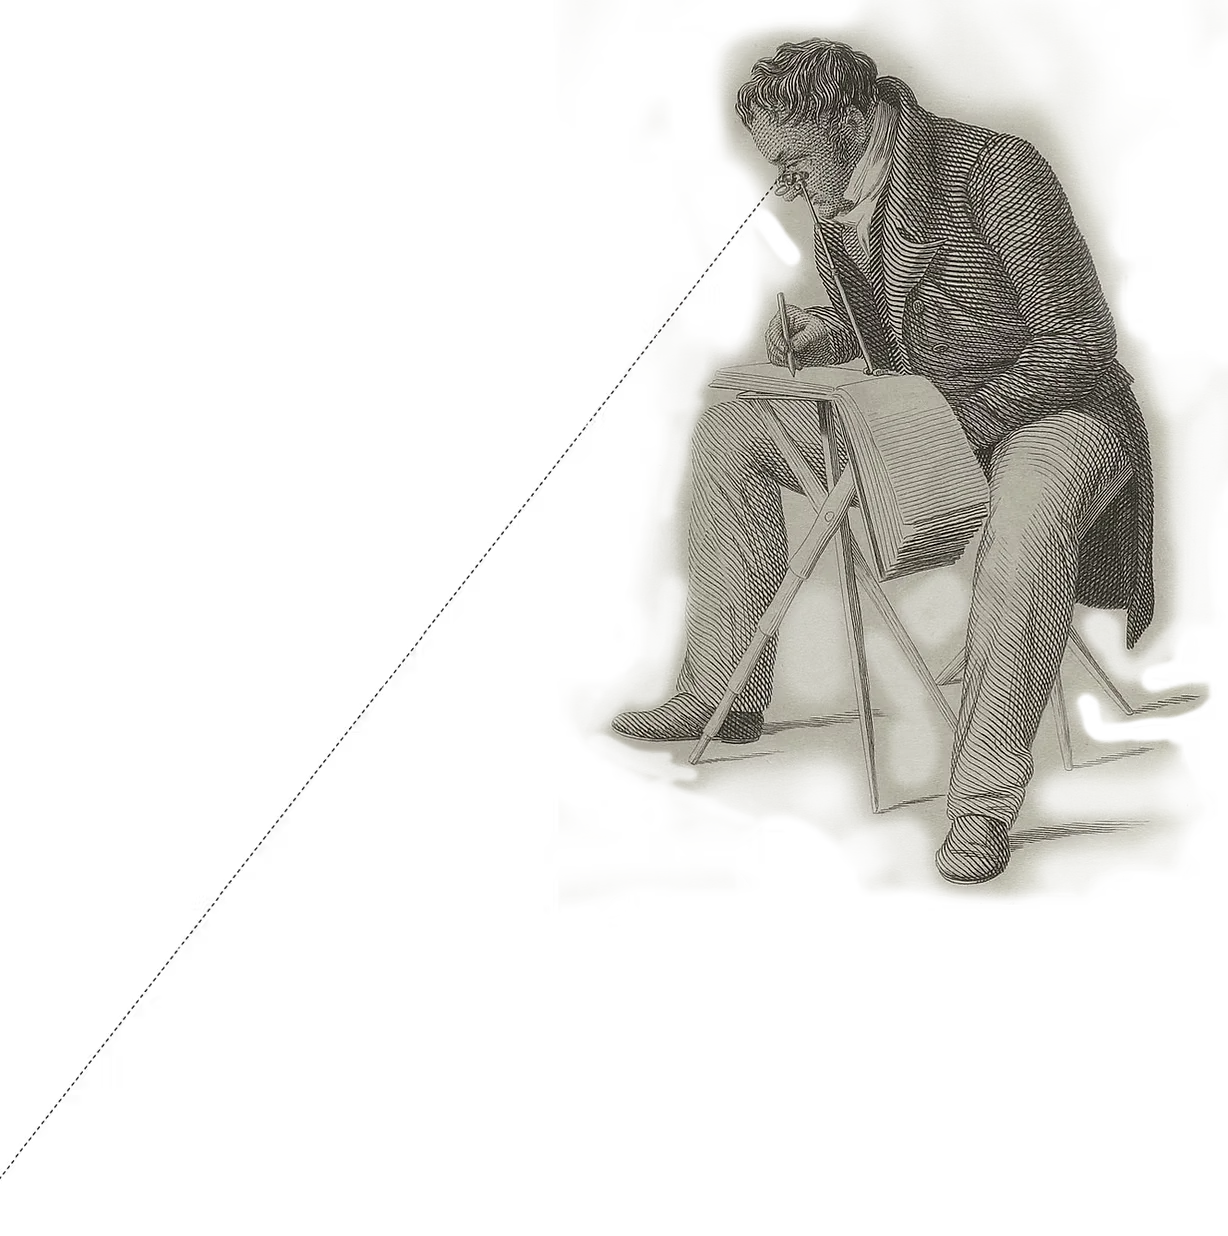
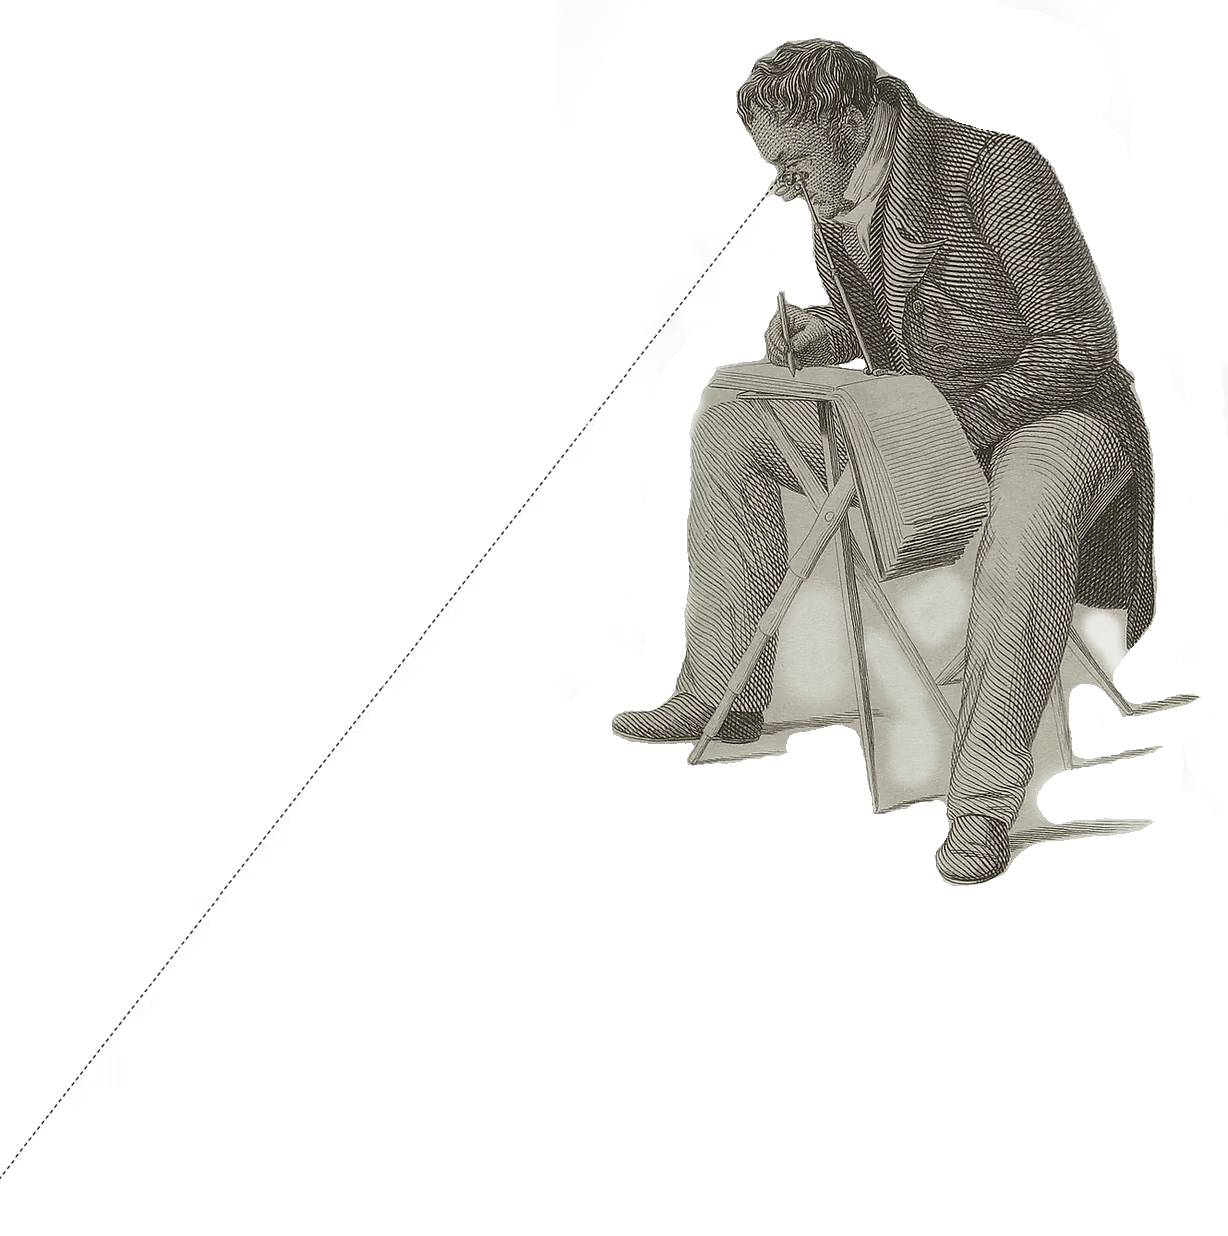
new fixes 7-13-26

Changed region(s): [[0.4951, 0.0, 0.9902, 0.7379], [0.6808, 0.2767, 0.7117, 0.3074]]

diff --git a/styles/global.css b/styles/global.css
@@ -1,3 +1,48 @@
+/* Eye blink transition */
+
+@property --blink-pos {
+  syntax: "<percentage>";
+  inherits: true;
+  initial-value: 0%;
+}
+
+#blink-overlay {
+  --offset-percentage: max(20vw, 20vw);
+  z-index: 1000000;
+  contain: strict;
+  will-change: transform;
+  position: fixed;
+  transform: translate3d(0, 0, 0);
+  left: calc(var(--offset-percentage) * -1);
+  top: calc(var(--offset-percentage) * -1);
+  width: calc(100% + (var(--offset-percentage) * 2));
+  height: calc(100% + (var(--offset-percentage) * 2));
+  transition: --blink-pos 0.75s ease;
+  filter: blur(20px);
+  pointer-events: none;
+
+  &.open {
+    --blink-pos: 55%;
+  }
+
+  &.skip {
+    transition: none;
+    --blink-pos: 55%;
+  }
+
+  #blink-gradient {
+    width: 100%;
+    height: 100%;
+    background-color: black;
+    mask-image: radial-gradient(
+      ellipse 100% var(--blink-pos) at center,
+      transparent 99%,
+      black 100%
+    );
+    pointer-events: none;
+  }
+}
+
 :root {
   --beige-bgr: rgb(185, 182, 167);
 }
@@ -9,7 +54,7 @@
 html,
 body {
   overscroll-behavior: none;
-  background-color: #000;
+  background-color: red;
 }
 
 body {
@@ -17,7 +62,7 @@ body {
   display: grid;
   min-height: 100dvh;
   font-family: "IM Fell English";
-  color: #000;
+  color: red;
 }
 
 img {
@@ -62,6 +107,7 @@ img {
   flex-direction: column;
   align-items: center;
   padding: 64px 8vw 70px 8vw;
+  overflow: hidden;
   background-color: var(--beige-bgr);
   background-image: url("../assets/images/grid-background.webp");
   background-attachment: fixed;
@@ -72,6 +118,11 @@ img {
 .blend {
   mix-blend-mode: luminosity;
   opacity: 0.65;
+}
+
+.blend-overlay {
+  mix-blend-mode: multiply;
+  opacity: 0.4;
 }
 
 #attribution {
@@ -85,50 +136,5 @@ img {
 @media (max-width: 767px) {
   #subpage-wrap {
     padding-inline: 20px;
-  }
-}
-
-/* Eye blink transition */
-
-@property --blink-pos {
-  syntax: "<percentage>";
-  inherits: true;
-  initial-value: 0%;
-}
-
-#blink-overlay {
-  --offset-percentage: max(20vw, 20vw);
-  contain: strict;
-  will-change: transform;
-  position: fixed;
-  transform: translate3d(0, 0, 0);
-  z-index: 1000000;
-  left: calc(var(--offset-percentage) * -1);
-  top: calc(var(--offset-percentage) * -1);
-  width: calc(100% + (var(--offset-percentage) * 2));
-  height: calc(100% + (var(--offset-percentage) * 2));
-  transition: --blink-pos 0.75s ease;
-  filter: blur(20px);
-  pointer-events: none;
-
-  &.open {
-    --blink-pos: 55%;
-  }
-
-  &.skip {
-    transition: none;
-    --blink-pos: 55%;
-  }
-
-  #blink-gradient {
-    width: 100%;
-    height: 100%;
-    background-color: black;
-    mask-image: radial-gradient(
-      ellipse 100% var(--blink-pos) at center,
-      transparent 99%,
-      black 100%
-    );
-    pointer-events: none;
   }
 }

diff --git a/styles/home.css b/styles/home.css
@@ -120,33 +120,38 @@ nav {
 
   nav {
     margin-right: 0;
+    flex-direction: column;
+    gap: 0.6em;
 
-    #nav-column-1 {
-      margin-top: 8cqw;
-      padding-right: 10px;
+    #nav-column-1,
+    #nav-column-2 {
+      margin-top: 0;
+      padding: 0;
+      text-align: center;
+      gap: 0.6em;
 
       a {
-        margin-bottom: 6.5cqw;
+        margin-bottom: 0;
       }
     }
 
-    #nav-column-2 {
-      margin-top: 7.5cqw;
-      padding-left: 10px;
-
-      a:first-child {
-        margin-bottom: 16cqw;
-      }
+    #nav-column-2 a:first-child {
+      margin-bottom: 0;
     }
 
     a {
-      font-size: 3.5cqw;
+      font-size: clamp(20px, 3.5vw, 26px);
     }
   }
 
   #head-mobile {
     display: block;
+    order: -1;
+    width: 65vw;
+    align-self: center;
+    margin-bottom: 1em;
   }
+
   #head-desktop-wrap {
     display: none;
   }

diff --git a/styles/film-and-tv.css b/styles/film-and-tv.css
@@ -168,9 +168,25 @@
   line-height: 1.6;
 }
 
+@media (max-width: 1032px) {
+  #fig-left,
+  #fig-right {
+    top: auto;
+    bottom: 0;
+  }
+}
+
 @media (max-width: 767px) {
   .entry {
     grid-template-columns: 1fr;
     gap: 0.75em;
+  }
+
+  .section-header {
+    font-size: clamp(18px, 4.5vw, 22px);
+  }
+
+  .entry-title {
+    font-size: clamp(24px, 6vw, 30px);
   }
 }

diff --git a/scripts/eye-blink.js b/scripts/eye-blink.js
@@ -1,6 +1,6 @@
 const TRANSITION_MS = 750;
 const MIN_DELAY_MS = 500;
-const startTime = Date.now();
+const startTime = performance.now();
 
 const GLOBAL_WRAP = document.getElementById("global-wrap");
 const BLINK_OVERLAY = document.getElementById("blink-overlay");
@@ -9,7 +9,8 @@ const BLINK_OVERLAY = document.getElementById("blink-overlay");
 const isIndex =
   window.location.pathname.endsWith("/") ||
   window.location.pathname.endsWith("index.html");
-const isLanding = isIndex && !new URLSearchParams(window.location.search).has("nav");
+const isLanding =
+  isIndex && !new URLSearchParams(window.location.search).has("nav");
 
 if (isLanding) {
   BLINK_OVERLAY.classList.add("skip");
@@ -21,13 +22,15 @@ window.addEventListener("pageshow", (event) => {
     GLOBAL_WRAP.classList.add("visible");
     return;
   }
-  const elapsed = Date.now() - startTime;
+  const elapsed = performance.now() - startTime;
   const remaining = event.persisted ? 0 : Math.max(0, MIN_DELAY_MS - elapsed);
   setTimeout(
     () =>
       requestAnimationFrame(() => {
         GLOBAL_WRAP.classList.add("visible");
-        BLINK_OVERLAY.classList.add("open");
+        requestAnimationFrame(() =>
+          requestAnimationFrame(() => BLINK_OVERLAY.classList.add("open")),
+        );
       }),
     remaining,
   );

diff --git a/styles/about.css b/styles/about.css
@@ -24,7 +24,7 @@
   position: absolute;
   inset: 0;
   pointer-events: none;
-  contain: strict;
+  overflow: hidden;
 
   #fig-26 {
     position: absolute;
@@ -34,12 +34,11 @@
     opacity: 0.4;
   }
 
-  #fig-16 {
+  #balochard-2 {
     position: absolute;
     bottom: -5%;
     right: -5%;
-    width: 40vw;
-    opacity: 0.4;
+    width: 25vw;
   }
 }
 
@@ -101,6 +100,10 @@
 }
 
 @media (max-width: 767px) {
+  #about-paras {
+    font-size: clamp(18px, 4.5vw, 22px);
+  }
+
   #background-graphics {
     #fig-16 {
       position: absolute;

diff --git a/about.html b/about.html
@@ -51,9 +51,9 @@
     </div>
 
     <div id="background-graphics">
-      <img id="fig-26" class="blend" src="assets/images/fig-26.webp" alt="" />
-      <img id="fig-16" class="blend" src="assets/images/fig-16.webp" alt="" />
-      <img id="dancers" class="blend" src="assets/images/dancers.webp" alt="" />
+      <img id="fig-26" class="blend-overlay" src="assets/images/fig-26-hc.webp" alt="" />
+      <img id="dancers" class="blend-overlay" src="assets/images/dancers-hc.webp" alt="" />
+      <img id="balochard-2" class="blend-overlay" src="assets/images/balochard-2.webp" alt="" />
     </div>
 
     <script src="scripts/eye-blink.js"></script>

diff --git a/coming-soon.html b/coming-soon.html
@@ -30,11 +30,11 @@
     <div id="subpage-wrap">
       <img
         id="corner-graphic"
-        class="blend"
-        src="assets/images/coming-soon-corner-graphic.webp"
+        class="blend-overlay"
+        src="assets/images/coming-soon-corner-graphic-hc.webp"
         alt=""
       />
-      <img id="dancing-master" class="blend" src="assets/images/dancing-master.webp" alt="" />
+      <img id="dancing-master" class="blend-overlay" src="assets/images/dancing-master-hc.webp" alt="" />
       <div id="logo-wrap">
       <a href="./?nav=open">
         <img id="logo" src="assets/images/logo-dark.webp" alt="Two Independent Eyes" />

diff --git a/hospitality.html b/hospitality.html
@@ -33,11 +33,11 @@
       <div id="subpage-wrap">
         <img
           id="corner-graphic"
-          class="blend"
-          src="assets/images/coming-soon-corner-graphic.webp"
+          class="blend-overlay"
+          src="assets/images/coming-soon-corner-graphic-hc.webp"
           alt=""
         />
-        <img id="dancing-master" class="blend" src="assets/images/dancing-master.webp" alt="" />
+        <img id="dancing-master" class="blend-overlay" src="assets/images/dancing-master-hc.webp" alt="" />
         <div id="logo-wrap">
           <a href="./?nav=open">
             <img

diff --git a/contact.html b/contact.html
@@ -38,14 +38,14 @@
           alt=""
         />
         <div id="logo-wrap">
-          <a href="./?nav=open">
+          <a href="index.html?nav=open">
             <img
               id="logo"
               src="assets/images/logo-dark.webp"
               alt="Two Independent Eyes"
             />
           </a>
-          <a id="back-button" href="./?nav=open">Take me back</a>
+          <a id="back-button" href="index.html?nav=open">Take me back</a>
         </div>
 
         <form

diff --git a/content.js b/content.js
@@ -41,10 +41,10 @@ export const FILM_AND_TV_SECTIONS = [
       {
         title: "NDA",
         type: "Feature",
-        genre: "Drama",
+        genre: "Thriller",
         logline:
           "A young professional must choose between taking a massive settlement and signing away her silence.",
-        href: "",
+        href: "https://www.imdb.com/title/tt43655470/",
       },
     ],
   },

diff --git a/film-and-tv.html b/film-and-tv.html
@@ -31,8 +31,8 @@
     <div id="blink-overlay"><div id="blink-gradient"></div></div>
     <div id="global-wrap">
     <div id="subpage-wrap">
-      <img id="fig-left" class="blend" src="assets/images/balochard.webp" alt="" />
-      <img id="fig-right" class="blend" src="assets/images/juggler.webp" alt="" />
+      <img id="fig-left" class="blend-overlay" src="assets/images/balochard.webp" alt="" />
+      <img id="fig-right" class="blend-overlay" src="assets/images/juggler.webp" alt="" />
       <div id="logo-wrap">
         <a href="./?nav=open">
           <img

diff --git a/index.html b/index.html
@@ -72,7 +72,7 @@
           <img
             id="head-mobile"
             class="blend"
-            src="assets/images/home-head-mobile.webp"
+            src="assets/images/home-head-mobile-no-lines.webp"
             alt=""
           />
           <div id="nav-column-2" class="nav-column">